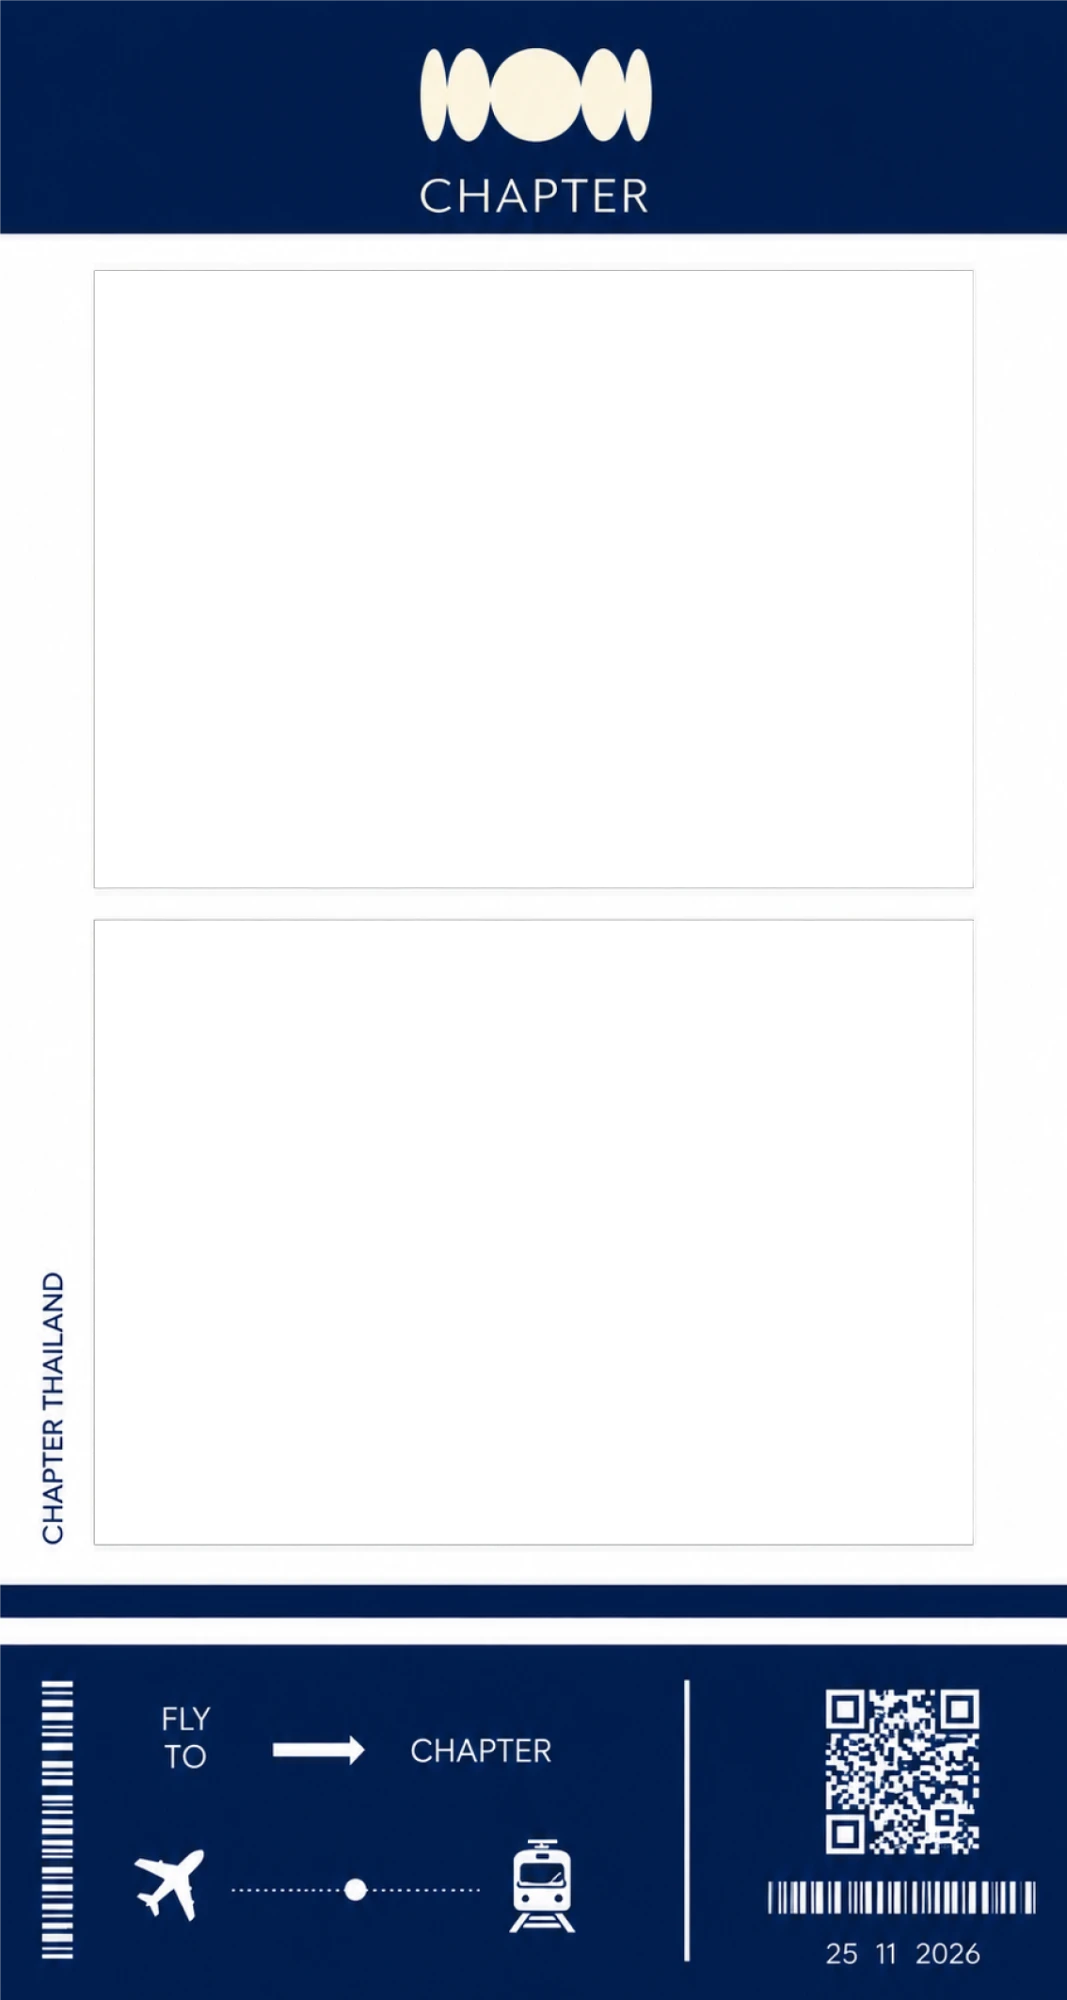
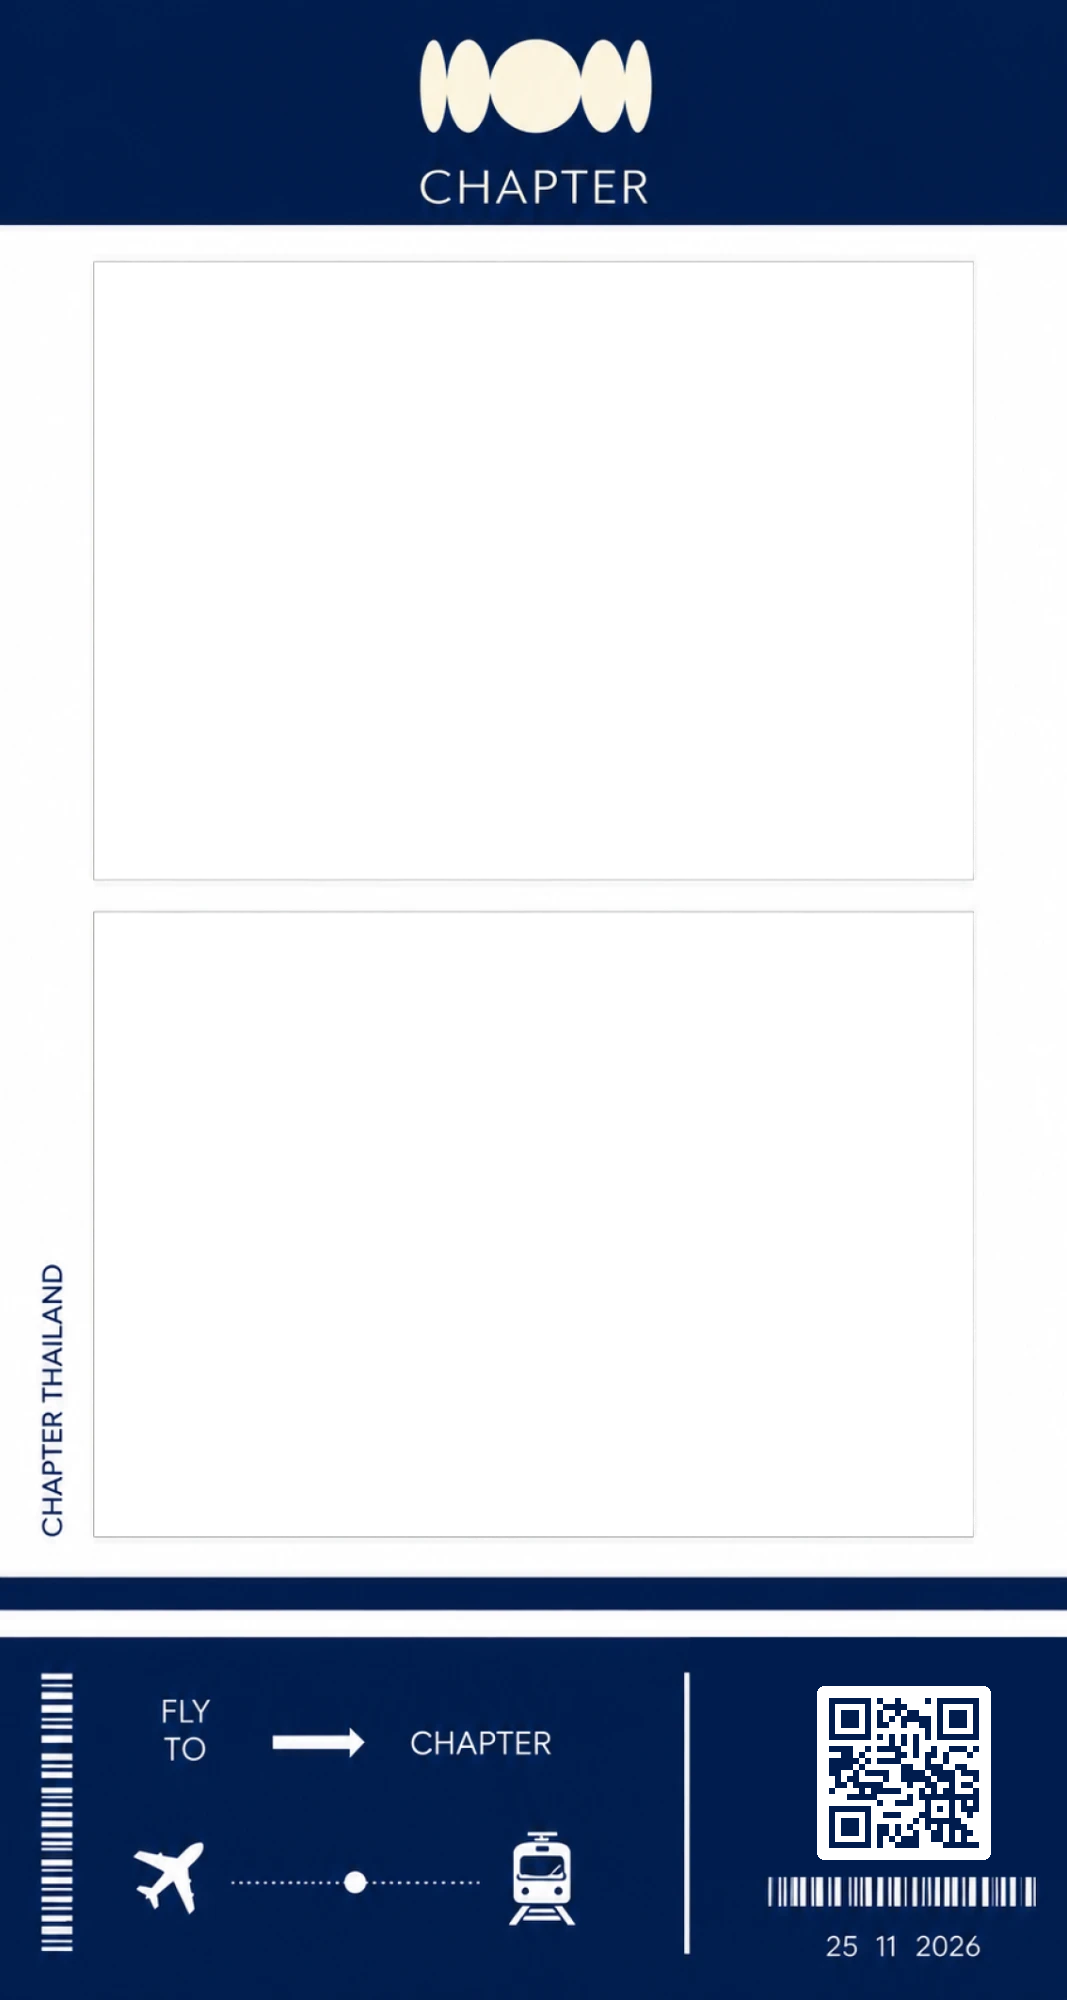
Switch to the designer's new CHAPTER colour frames with a scannable QR
The website QR on the colour frames is redrawn crisp (dark on a white tile)
so phones can scan it, and the gold frame's date reads 25 11 2026. Slot
positions updated to the new frames.

Claude-Session: https://claude.ai/code/session_01FynaJLu4s926dB6LPWQYyb

diff --git a/app.js b/app.js
@@ -124,8 +124,8 @@ const FRAME_LAYOUTS = {
   navy: {
     src: 'assets/chapter-navy-2.png', width: 1067, height: 2000,
     slots: [
-      { x: 92, y: 269, width: 884, height: 621 },
-      { x: 92, y: 918, width: 884, height: 629 }
+      { x: 94, y: 262, width: 880, height: 618 },
+      { x: 94, y: 912, width: 880, height: 624 }
     ],
     print: {
       src: 'assets/chapter-navy-2-print.png', width: 1067, height: 2000,
@@ -138,10 +138,10 @@ const FRAME_LAYOUTS = {
   gold: {
     src: 'assets/chapter-gold.png', width: 1067, height: 2000,
     slots: [
-      { x: 92, y: 280, width: 423, height: 617 },
-      { x: 556, y: 280, width: 423, height: 617 },
-      { x: 92, y: 922, width: 423, height: 631 },
-      { x: 556, y: 922, width: 423, height: 631 }
+      { x: 94, y: 282, width: 418, height: 612 },
+      { x: 559, y: 282, width: 418, height: 612 },
+      { x: 94, y: 924, width: 418, height: 626 },
+      { x: 559, y: 924, width: 418, height: 626 }
     ],
     print: {
       src: 'assets/chapter-gold-print.png', width: 1067, height: 2000,
